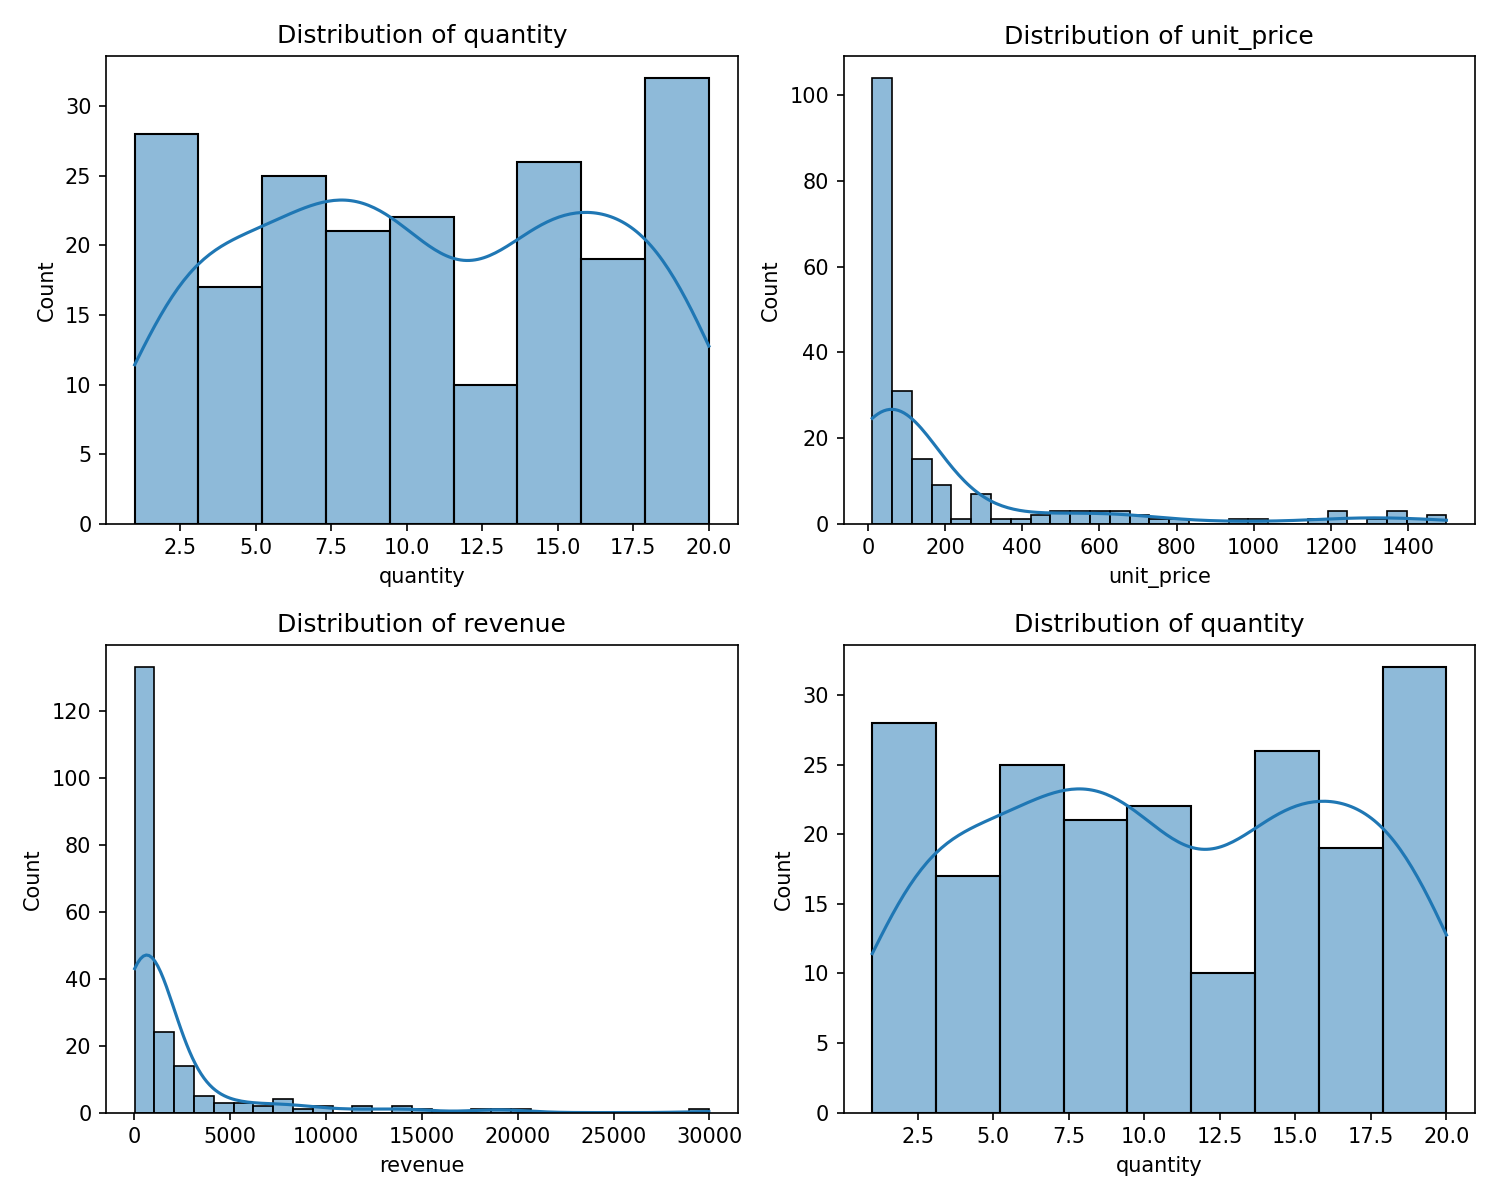
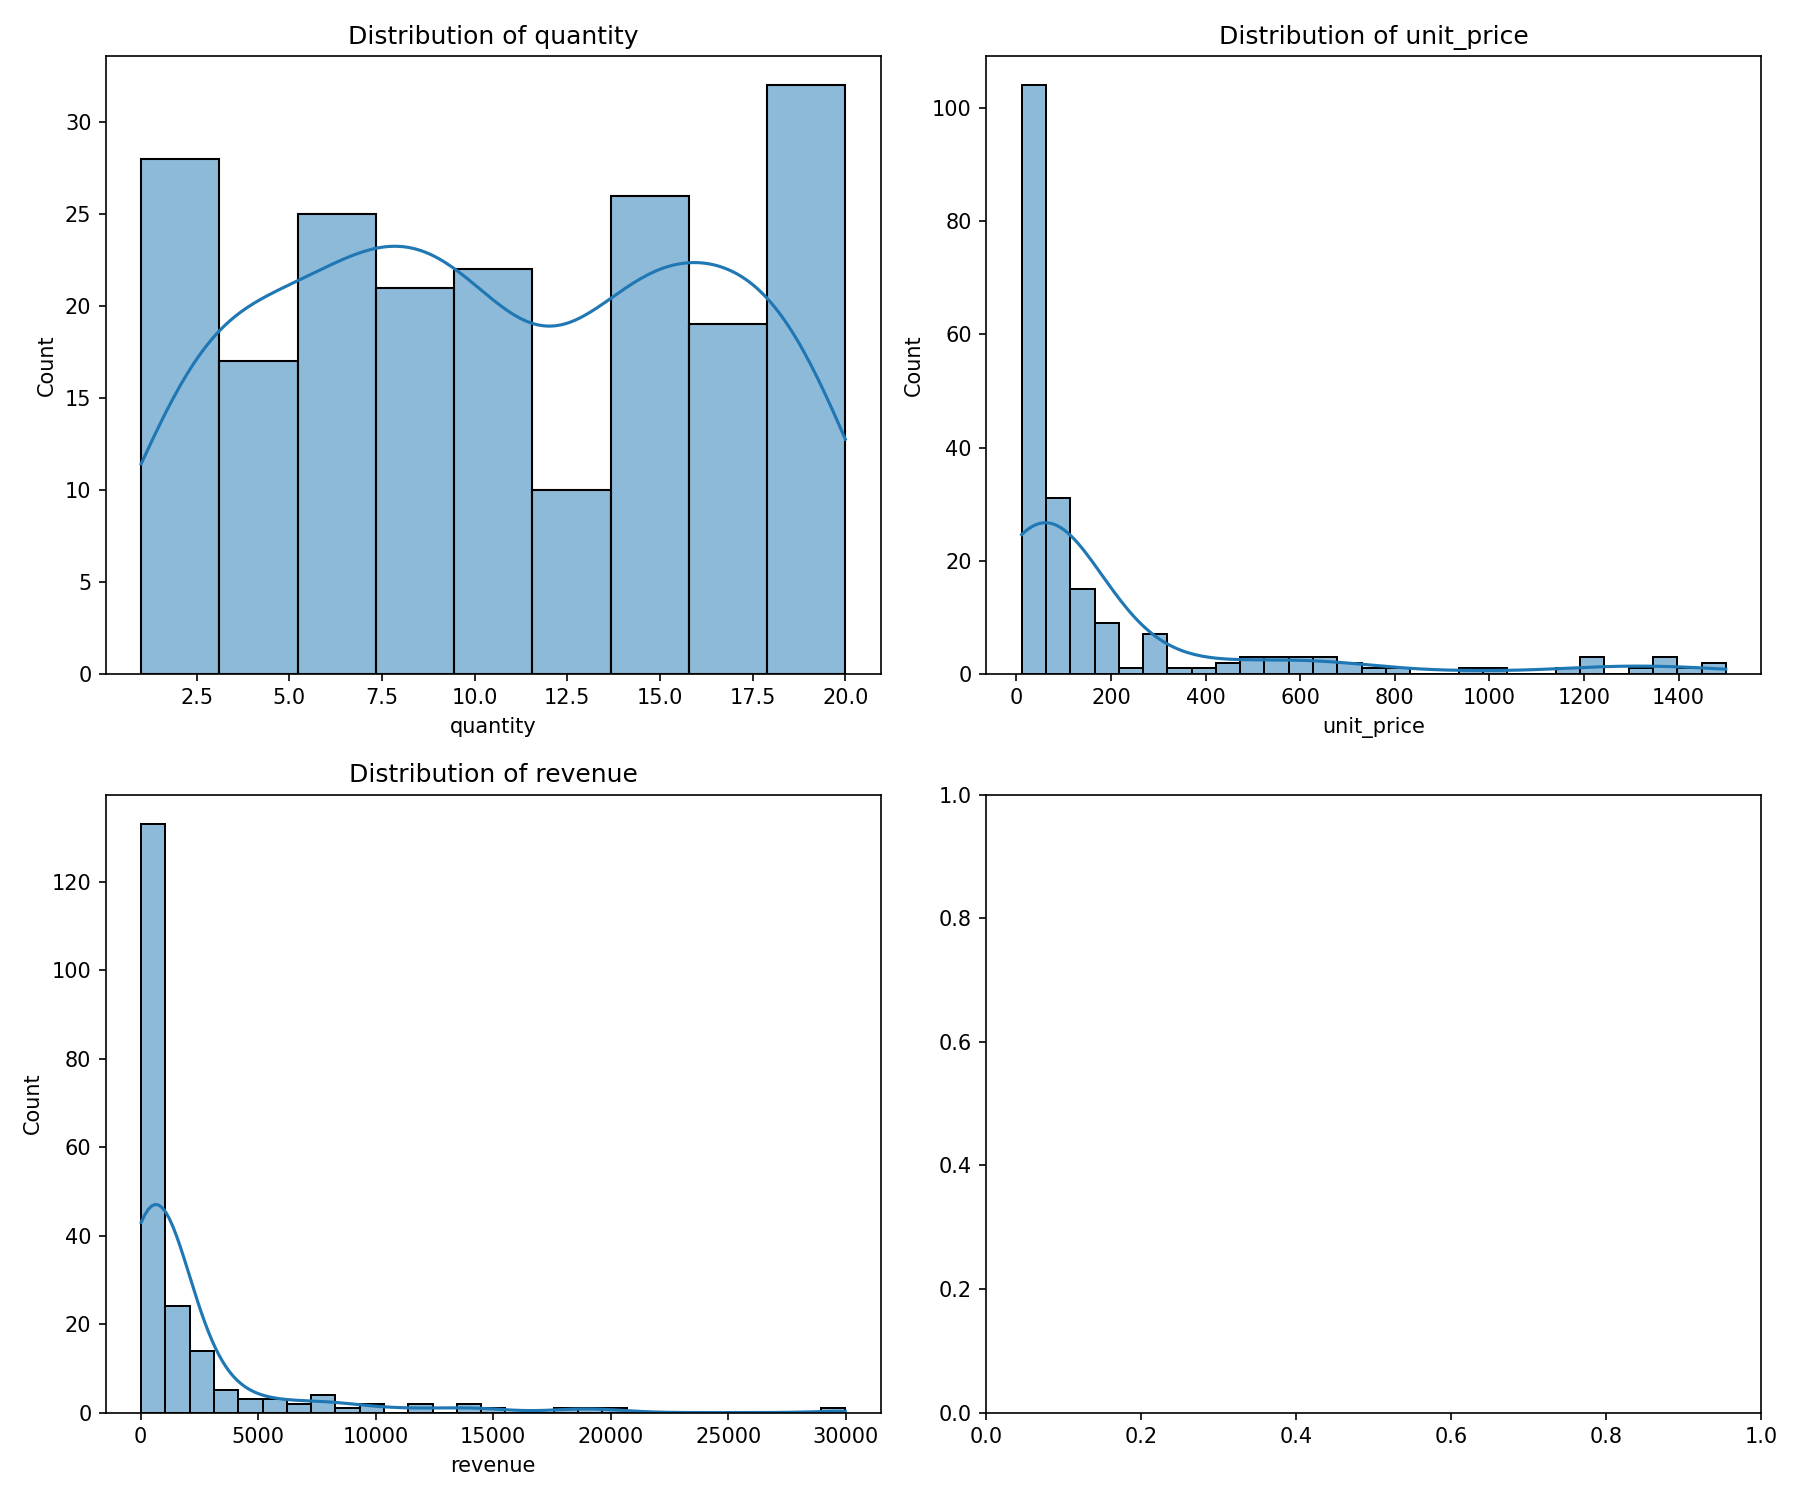
fix: adjust summary statistics format to match autograder requirements

Changed region(s): [[0.0, 0.0, 0.9813, 0.9867], [0.0307, 0.0617, 0.0613, 0.0925]]

diff --git a/drill_eda.py b/drill_eda.py
@@ -28,18 +28,17 @@ def compute_summary(df):
     
     numeric_df = df.select_dtypes(include='number')
     
-    summary = numeric_df.describe().T
+    summary = numeric_df.describe()
     
-    summary['median'] = numeric_df.median()
+    summary.loc['median'] = numeric_df.median()
     
-    summary = summary[['count', 'mean', 'median', 'std', 'min', 'max']]
+    summary = summary.loc[['count', 'mean', 'median', 'std', 'min', 'max']]
     
     os.makedirs('output', exist_ok=True)
     
     summary.to_csv('output/summary.csv')
     
     return summary
-    
 
 
 def plot_distributions(df, columns, output_path):
@@ -56,8 +55,7 @@ def plot_distributions(df, columns, output_path):
     # TODO: Create a 2x2 figure with sns.histplot (KDE overlay) for each column
     #       Add titles, labels, and tight layout before saving
     
-    fig, axes = plt.subplots(2, 2, figsize=(10, 8))
-    
+    fig, axes = plt.subplots(2, 2, figsize=(12, 10))
     axes = axes.flatten()
     
     for i, col in enumerate(columns):
@@ -87,12 +85,9 @@ def plot_correlation(df, output_path):
     #       visualize it as an annotated Seaborn heatmap
     
     numeric_df = df.select_dtypes(include='number')
-    
     corr_matrix = numeric_df.corr()
     
-    # رسم heatmap
     fig, ax = plt.subplots(figsize=(10, 8))
-    
     sns.heatmap(
         corr_matrix,
         annot=True,
@@ -103,13 +98,9 @@ def plot_correlation(df, output_path):
     )
     
     ax.set_title('Correlation Heatmap')
-    
     plt.tight_layout()
-    
     os.makedirs('output', exist_ok=True)
-    
     fig.savefig(output_path, dpi=150)
-    
     plt.close()
 
 
@@ -124,17 +115,27 @@ def main():
     
     
     os.makedirs("output", exist_ok=True)
-
+    
     df = pd.read_csv("data/sample_sales.csv")
     
-    df['revenue'] = df['quantity'] * df['unit_price']
+    if not os.path.exists("data/sample_sales.csv"):
+        print("Error: data/sample_sales.csv not found.")
+        return
+    
+    
+    if 'revenue' not in df.columns:
+        df['revenue'] = df['quantity'] * df['unit_price']
 
+    
     compute_summary(df)
 
     # Task 2: Distribution plots
+    numeric_cols = df.select_dtypes(include='number').columns.tolist()
+    plot_cols = numeric_cols[:4] if len(numeric_cols) >= 4 else numeric_cols
+    
     plot_distributions(
         df,
-        columns=['quantity', 'unit_price', 'revenue', 'quantity'],  
+        columns=plot_cols,  
         output_path='output/distributions.png'
     )
 
